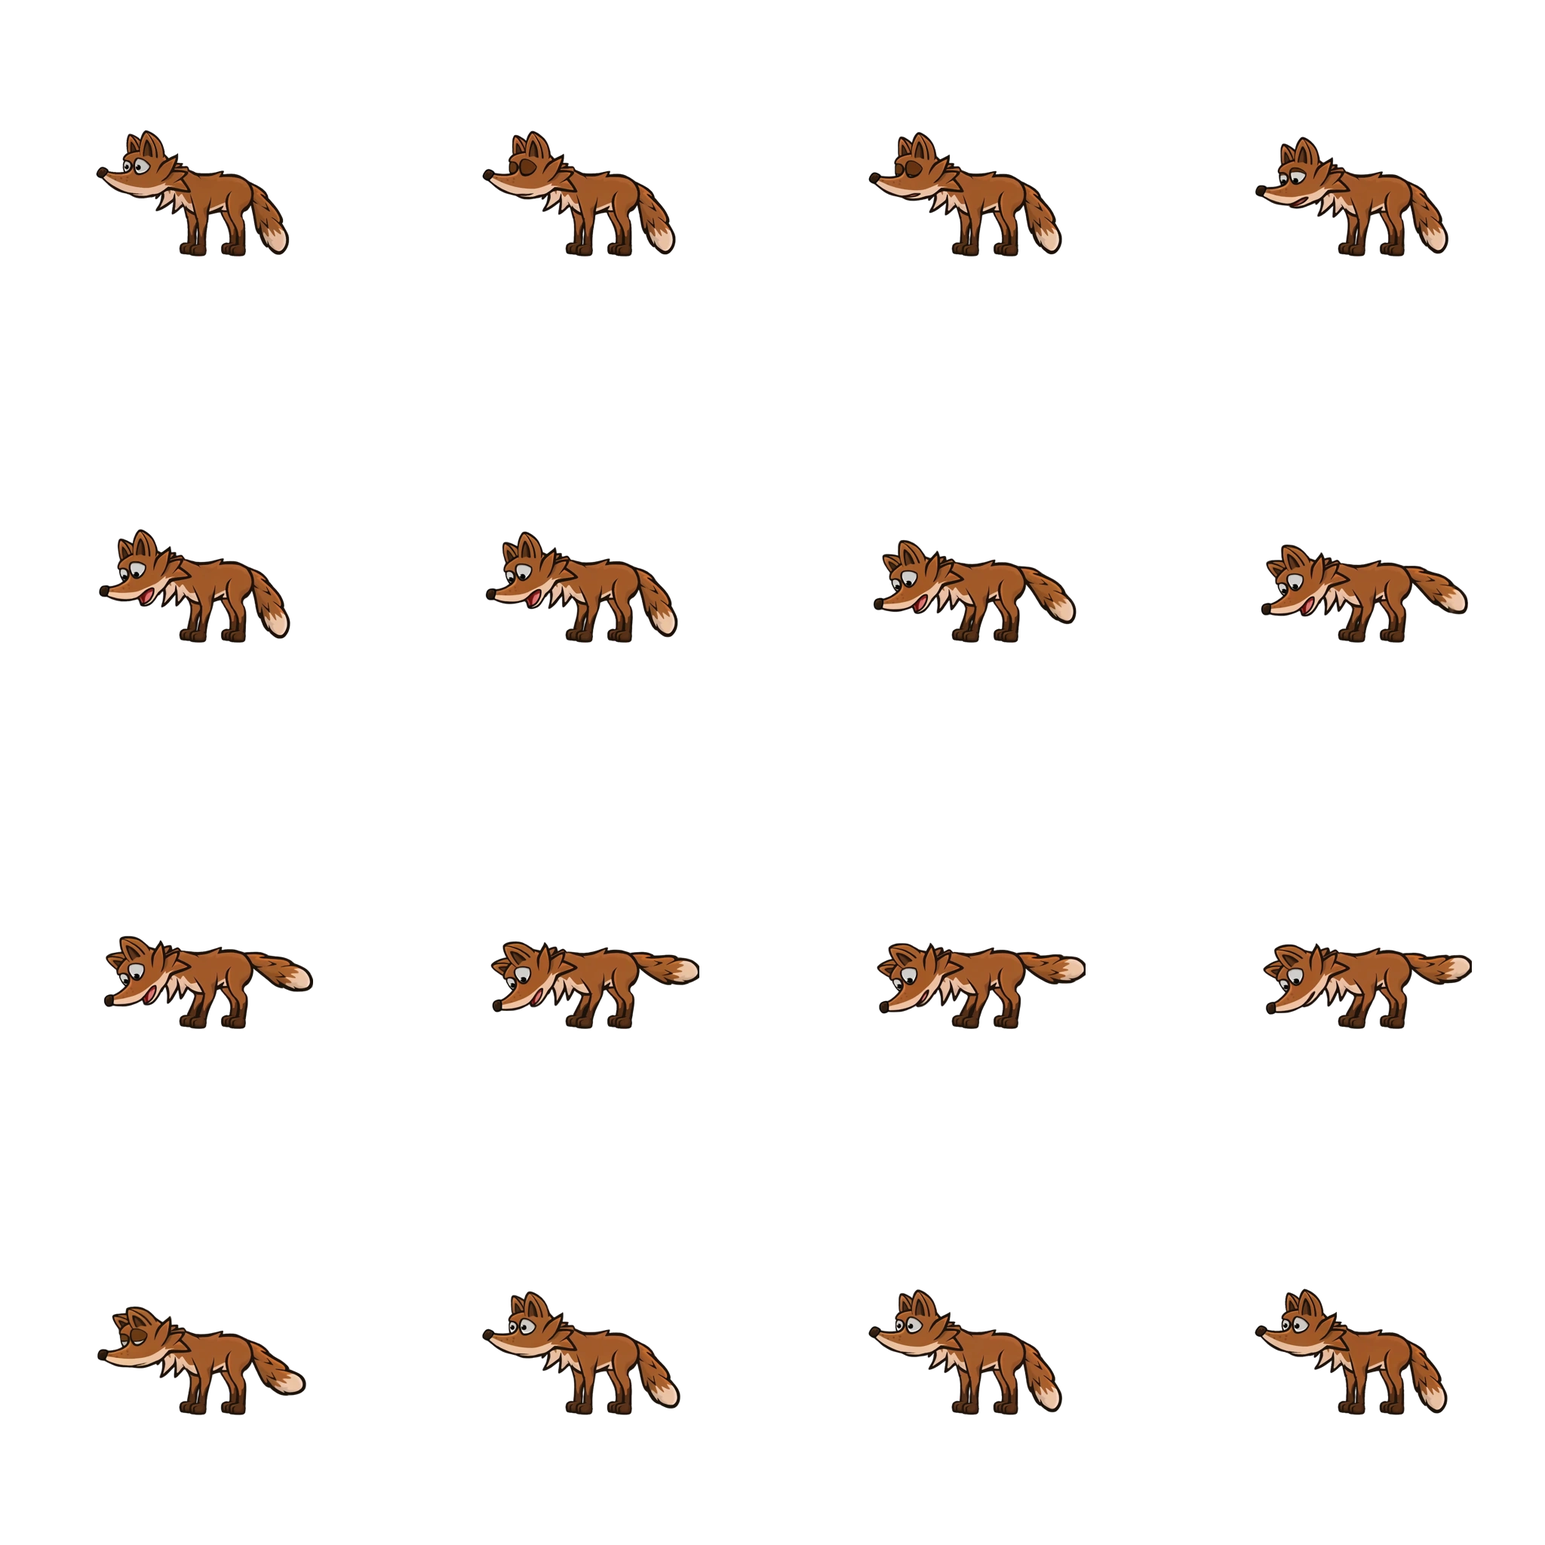
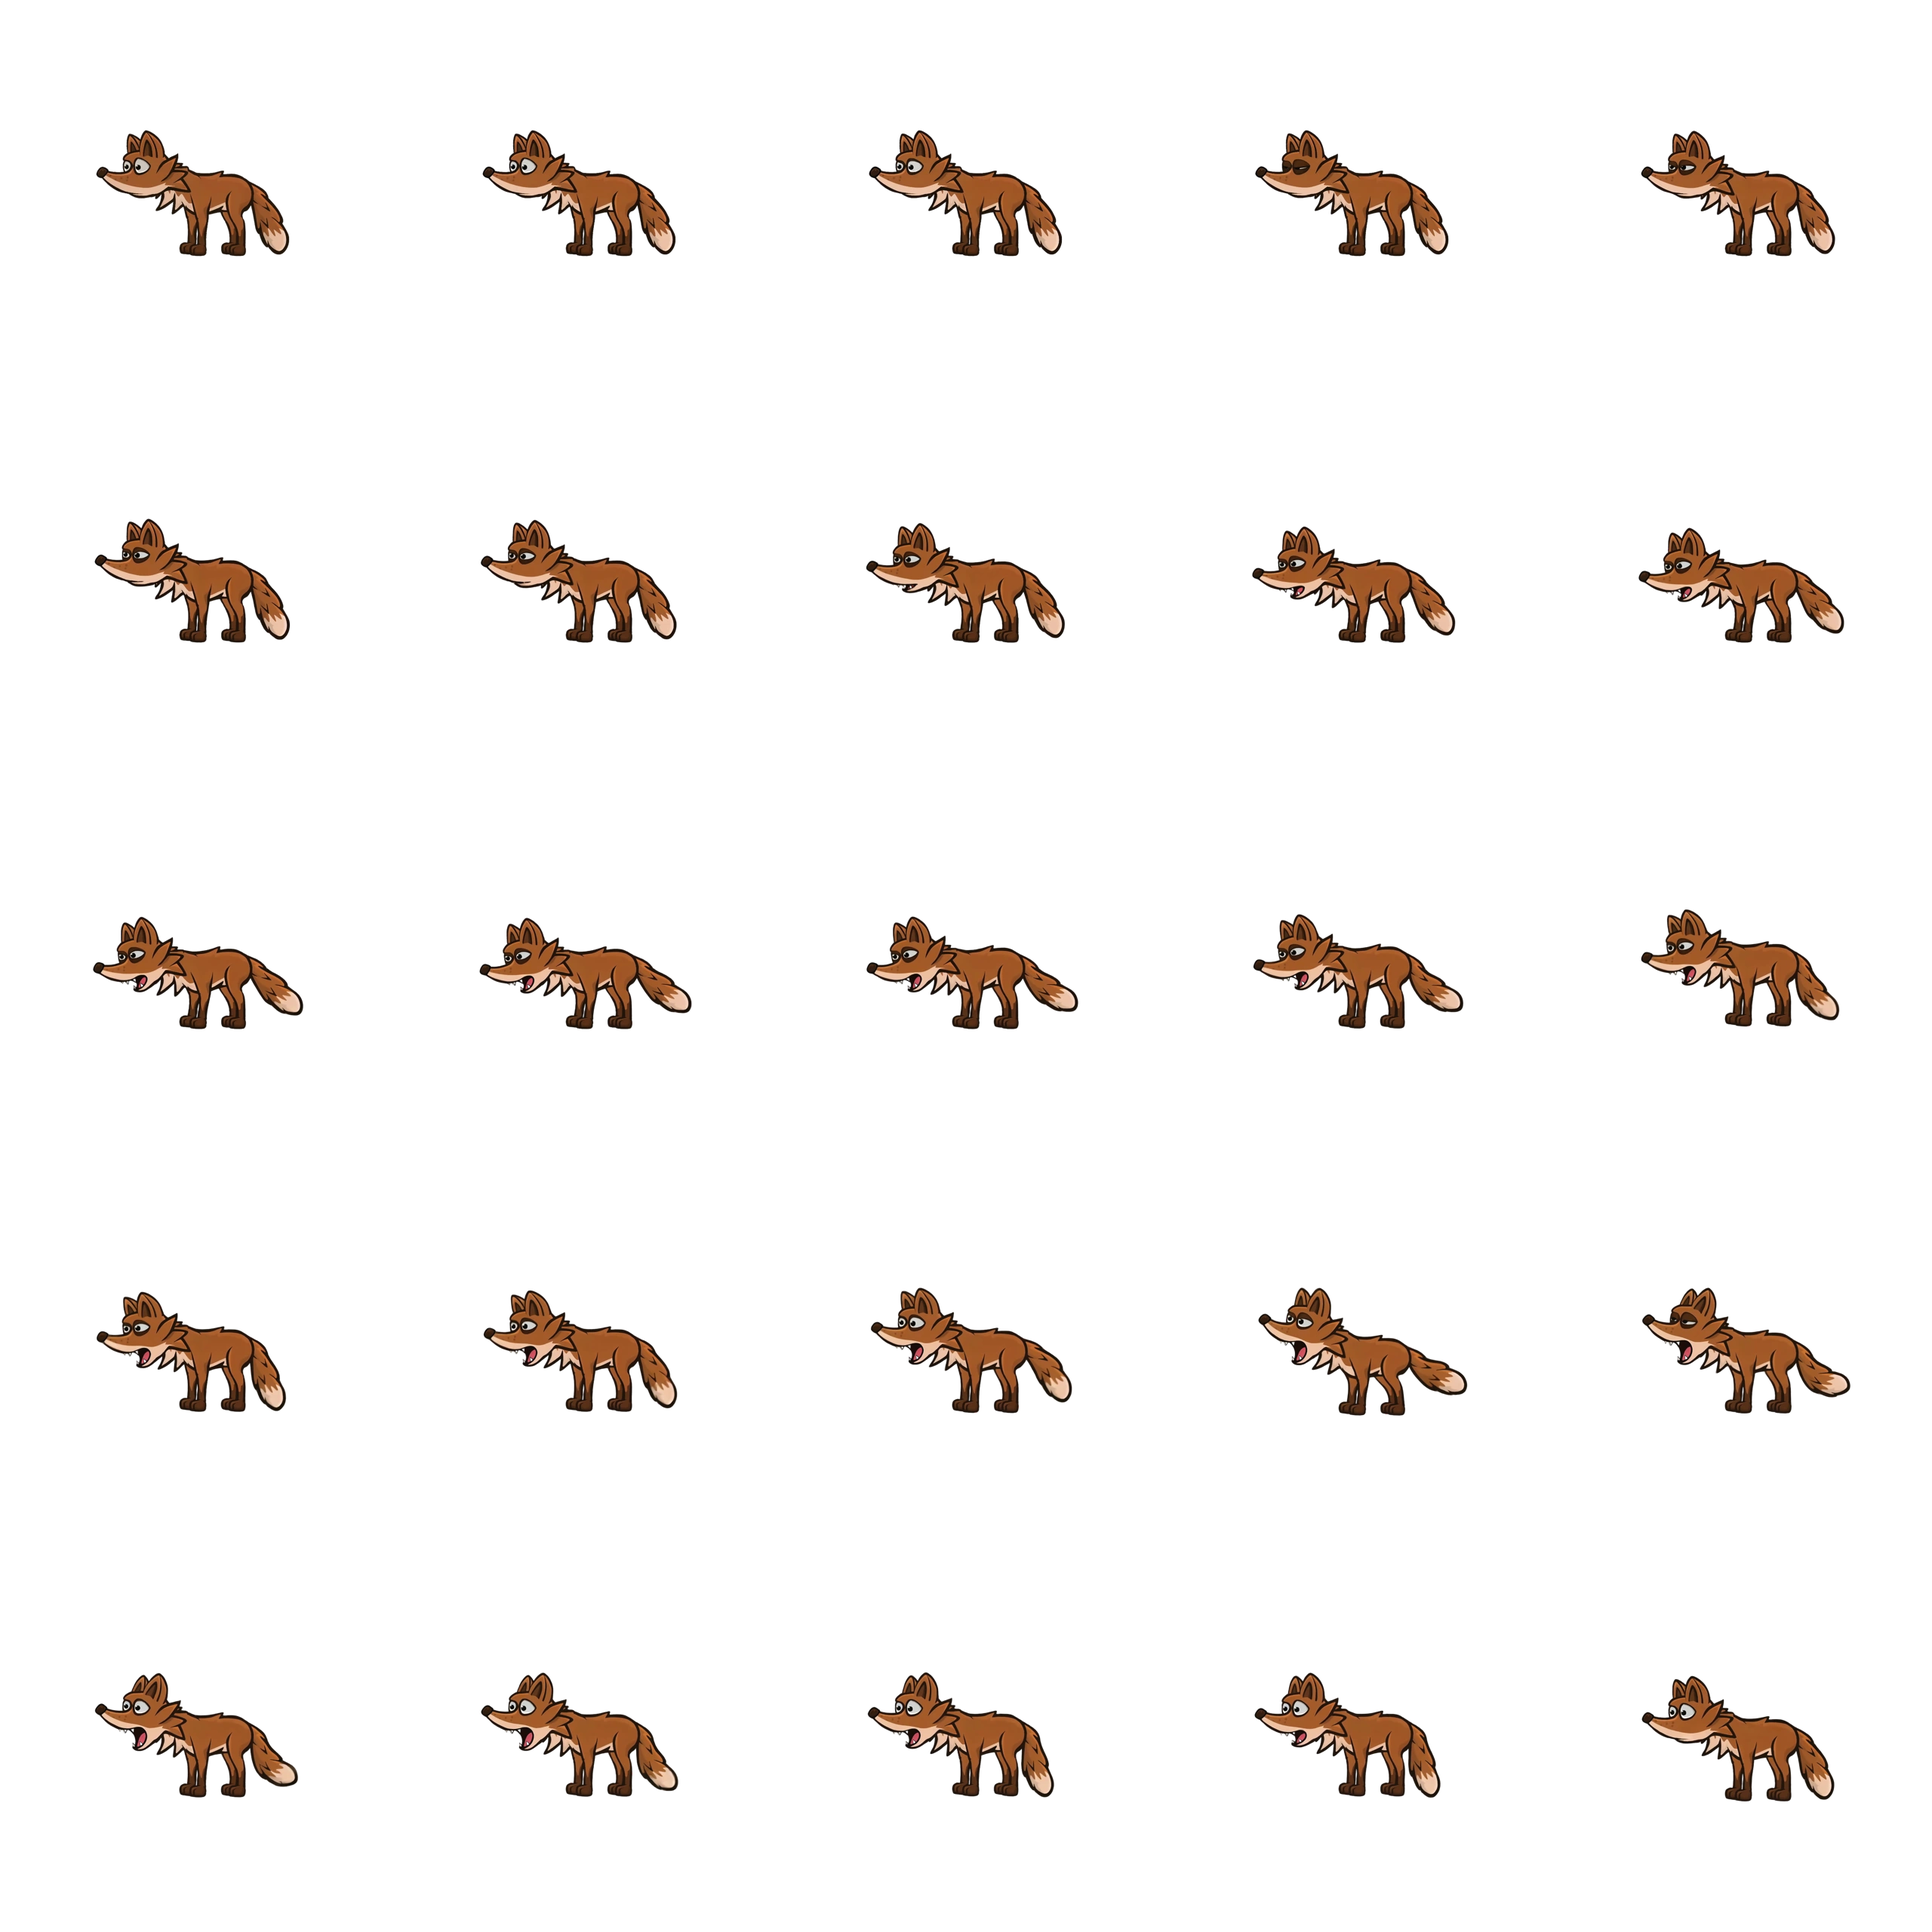
feat(animals): ship the reviewed 25-frame fox emotions
Replace the four remaining 16-frame fox clips; sneaky was already on the current spec.

diff --git a/src/phaser/animals/emotionSheets.generated.ts b/src/phaser/animals/emotionSheets.generated.ts
@@ -190,33 +190,31 @@ export const EMOTION_SHEETS: Partial<
       file: 'fox-angry.png',
       frameWidth: 512,
       frameHeight: 512,
-      frameCount: 16,
-      frameRate: 8,
-      scale: 2.3155,
-      originX: 0.5723,
+      frameCount: 25,
+      frameRate: 13,
+      scale: 2.2486,
+      originX: 0.5638,
       originY: 0.6641,
       quality: {
-        loopPop: 0.19,
-        heightSwing: 32.1,
-        driftX: 10.8,
-        warnings: [
-          'height swing 32% (over 20%) — check it is motion, not the character changing pose',
-        ],
+        loopPop: 0.2,
+        heightSwing: 12.9,
+        driftX: 10.5,
+        warnings: [],
       },
     },
     doubtful: {
       file: 'fox-doubtful.png',
       frameWidth: 512,
       frameHeight: 512,
-      frameCount: 16,
-      frameRate: 8,
+      frameCount: 25,
+      frameRate: 13,
       scale: 2.3018,
-      originX: 0.5472,
+      originX: 0.5443,
       originY: 0.6641,
       quality: {
         loopPop: 0.16,
-        heightSwing: 15.4,
-        driftX: 6,
+        heightSwing: 10.1,
+        driftX: 1,
         warnings: [],
       },
     },
@@ -240,15 +238,15 @@ export const EMOTION_SHEETS: Partial<
       file: 'fox-talking.png',
       frameWidth: 512,
       frameHeight: 512,
-      frameCount: 16,
-      frameRate: 8,
-      scale: 2.2616,
-      originX: 0.545,
-      originY: 0.666,
+      frameCount: 25,
+      frameRate: 13,
+      scale: 2.2229,
+      originX: 0.535,
+      originY: 0.6641,
       quality: {
-        loopPop: 0.2,
-        heightSwing: 3.5,
-        driftX: 1.8,
+        loopPop: 0.18,
+        heightSwing: 16,
+        driftX: 2.5,
         warnings: [],
       },
     },
@@ -256,16 +254,18 @@ export const EMOTION_SHEETS: Partial<
       file: 'fox-thinking.png',
       frameWidth: 512,
       frameHeight: 512,
-      frameCount: 16,
-      frameRate: 8,
-      scale: 2.3155,
-      originX: 0.5635,
-      originY: 0.6641,
+      frameCount: 25,
+      frameRate: 13,
+      scale: 2.3018,
+      originX: 0.5726,
+      originY: 0.666,
       quality: {
         loopPop: 0.17,
-        heightSwing: 14.3,
-        driftX: 7.3,
-        warnings: [],
+        heightSwing: 26.8,
+        driftX: 11.3,
+        warnings: [
+          'height swing 27% (over 20%) — check it is motion, not the character changing pose',
+        ],
       },
     },
   },
